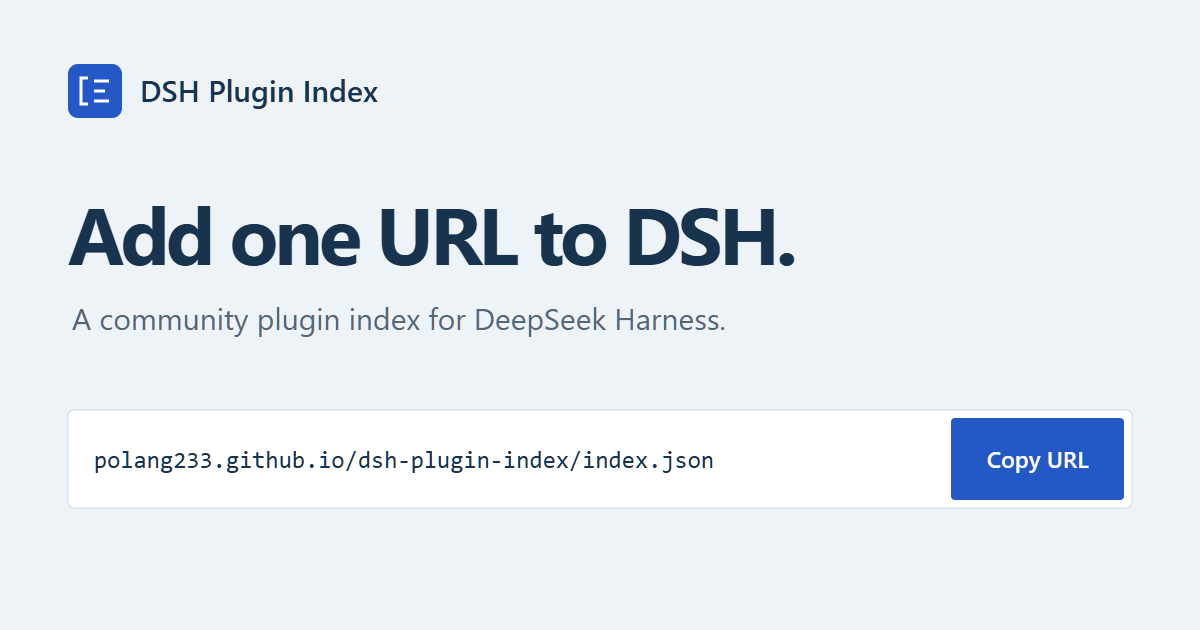
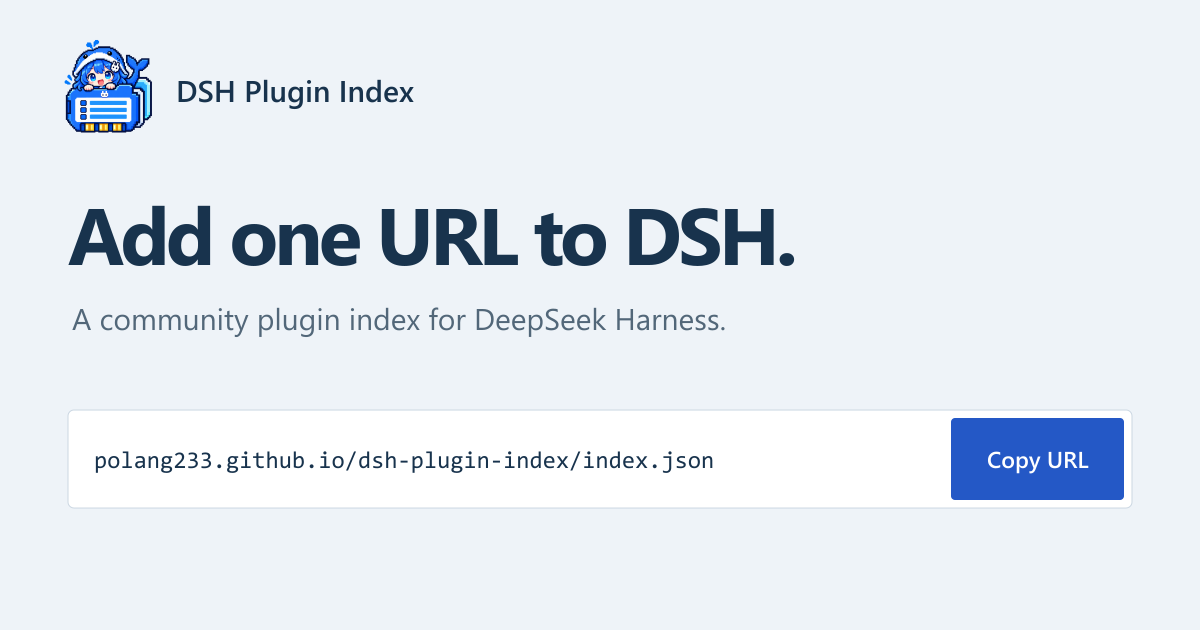
Add pixel whale mascot to project branding

diff --git a/public/404.html b/public/404.html
@@ -1,4 +1,4 @@
-<!doctype html><html lang="en"><head><meta charset="utf-8"><meta name="viewport" content="width=device-width, initial-scale=1"><meta name="robots" content="noindex"><title>Page not found — DSH Plugin Index</title><style>:root {
+<!doctype html><html lang="en"><head><meta charset="utf-8"><meta name="viewport" content="width=device-width, initial-scale=1"><meta name="robots" content="noindex"><title>Page not found — DSH Plugin Index</title><link rel="icon" href="https://polang233.github.io/dsh-plugin-index/assets/favicon.png" type="image/png" sizes="64x64"><style>:root {
   color-scheme: light;
   --paper: #fff;
   --mist: #eef3f8;
@@ -28,7 +28,7 @@ button { cursor: pointer; }
 .skip:focus { transform: none; }
 .site-header { min-height: 108px; display: flex; justify-content: space-between; align-items: center; gap: 28px; }
 .brand { display: inline-flex; align-items: center; gap: 11px; color: var(--ink); text-decoration: none; font-size: 19px; font-weight: 700; letter-spacing: -.45px; white-space: nowrap; }
-.brand img { width: 34px; height: 34px; }
+.brand img { width: 64px; height: 64px; flex-shrink: 0; object-fit: contain; image-rendering: pixelated; }
 .header-links { display: flex; gap: 25px; align-items: center; }
 .header-links > a { color: var(--slate); text-decoration: none; font-size: 14px; }
 .header-links > a:hover { color: var(--blue); text-decoration: underline; }
@@ -125,7 +125,7 @@ h2 { margin: 0; font-size: 29px; letter-spacing: -.035em; line-height: 1.2; font
   .shell { width: calc(100% - 36px); }
   .site-header { min-height: 82px; gap: 12px; }
   .brand { font-size: 16px; gap: 8px; letter-spacing: -.4px; }
-  .brand img { width: 28px; height: 28px; }
+  .brand img { width: 44px; height: 44px; }
   .header-links { gap: 0; }
   .header-links > a { display: none; }
   .languages { margin-left: 0; gap: 0; }
@@ -164,4 +164,4 @@ h2 { margin: 0; font-size: 29px; letter-spacing: -.035em; line-height: 1.2; font
   .footer .scope { margin-top: 10px; }
 }
 @media (prefers-reduced-motion: reduce) { *, *::before, *::after { scroll-behavior: auto !important; } }
-</style></head><body><header class="site-header shell"><a class="brand" href="https://polang233.github.io/dsh-plugin-index/">DSH Plugin Index</a></header><main class="shell hero"><h1>Page not found.</h1><p lang="zh-CN">页面不存在。</p><p>Open the plugin directory to continue.</p><p lang="zh-CN">返回插件目录，继续查找插件。</p><div class="contribute-links"><a class="submit-link" href="https://polang233.github.io/dsh-plugin-index/">English directory</a><a class="submit-link" href="https://polang233.github.io/dsh-plugin-index/zh/" lang="zh-CN">中文目录</a></div></main></body></html>
+</style></head><body><header class="site-header shell"><a class="brand" href="https://polang233.github.io/dsh-plugin-index/"><img src="https://polang233.github.io/dsh-plugin-index/assets/logo-256.png" alt="" width="64" height="64"><span>DSH Plugin Index</span></a></header><main class="shell hero"><h1>Page not found.</h1><p lang="zh-CN">页面不存在。</p><p>Open the plugin directory to continue.</p><p lang="zh-CN">返回插件目录，继续查找插件。</p><div class="contribute-links"><a class="submit-link" href="https://polang233.github.io/dsh-plugin-index/">English directory</a><a class="submit-link" href="https://polang233.github.io/dsh-plugin-index/zh/" lang="zh-CN">中文目录</a></div></main></body></html>

diff --git a/public/zh/index.html b/public/zh/index.html
@@ -12,7 +12,8 @@
   <link rel="alternate" hreflang="en" href="https://polang233.github.io/dsh-plugin-index/">
   <link rel="alternate" hreflang="zh-CN" href="https://polang233.github.io/dsh-plugin-index/zh/">
   <link rel="alternate" hreflang="x-default" href="https://polang233.github.io/dsh-plugin-index/">
-  <link rel="icon" href="../assets/favicon.svg" type="image/svg+xml">
+  <link rel="icon" href="../assets/favicon.png" type="image/png" sizes="64x64">
+  <link rel="apple-touch-icon" href="../assets/apple-touch-icon.png" sizes="180x180">
   <link rel="stylesheet" href="../assets/site.css">
   <meta property="og:type" content="website">
   <meta property="og:site_name" content="DSH Plugin Index">
@@ -33,7 +34,7 @@
 <body>
   <a class="skip" href="#main">跳到正文</a>
   <header class="site-header shell">
-    <a class="brand" href="../index.html"><img src="../assets/favicon.svg" alt="" width="34" height="34"><span>DSH Plugin Index</span></a>
+    <a class="brand" href="../index.html"><img src="../assets/logo-256.png" alt="" width="64" height="64"><span>DSH Plugin Index</span></a>
     <nav class="header-links" aria-label="主导航">
       <a href="#plugins">插件目录</a><a class="header-docs" href="https://github.com/polang233/dsh-plugin-index/blob/main/README.zh-CN.md">文档</a><a href="https://github.com/polang233/dsh-plugin-index">GitHub</a>
       <div class="languages" aria-label="语言"><a href="../index.html" lang="en" hreflang="en">EN</a><span lang="zh-CN" aria-current="page">中文</span></div>

diff --git a/public/index.html b/public/index.html
@@ -12,7 +12,8 @@
   <link rel="alternate" hreflang="en" href="https://polang233.github.io/dsh-plugin-index/">
   <link rel="alternate" hreflang="zh-CN" href="https://polang233.github.io/dsh-plugin-index/zh/">
   <link rel="alternate" hreflang="x-default" href="https://polang233.github.io/dsh-plugin-index/">
-  <link rel="icon" href="./assets/favicon.svg" type="image/svg+xml">
+  <link rel="icon" href="./assets/favicon.png" type="image/png" sizes="64x64">
+  <link rel="apple-touch-icon" href="./assets/apple-touch-icon.png" sizes="180x180">
   <link rel="stylesheet" href="./assets/site.css">
   <meta property="og:type" content="website">
   <meta property="og:site_name" content="DSH Plugin Index">
@@ -33,7 +34,7 @@
 <body>
   <a class="skip" href="#main">Skip to content</a>
   <header class="site-header shell">
-    <a class="brand" href="./index.html"><img src="./assets/favicon.svg" alt="" width="34" height="34"><span>DSH Plugin Index</span></a>
+    <a class="brand" href="./index.html"><img src="./assets/logo-256.png" alt="" width="64" height="64"><span>DSH Plugin Index</span></a>
     <nav class="header-links" aria-label="Main navigation">
       <a href="#plugins">Plugins</a><a class="header-docs" href="https://github.com/polang233/dsh-plugin-index#readme">Docs</a><a href="https://github.com/polang233/dsh-plugin-index">GitHub</a>
       <div class="languages" aria-label="Language"><span lang="en" aria-current="page">EN</span><a href="./zh/index.html" lang="zh-CN" hreflang="zh-CN">中文</a></div>

diff --git a/public/assets/site.css b/public/assets/site.css
@@ -28,7 +28,7 @@ button { cursor: pointer; }
 .skip:focus { transform: none; }
 .site-header { min-height: 108px; display: flex; justify-content: space-between; align-items: center; gap: 28px; }
 .brand { display: inline-flex; align-items: center; gap: 11px; color: var(--ink); text-decoration: none; font-size: 19px; font-weight: 700; letter-spacing: -.45px; white-space: nowrap; }
-.brand img { width: 34px; height: 34px; }
+.brand img { width: 64px; height: 64px; flex-shrink: 0; object-fit: contain; image-rendering: pixelated; }
 .header-links { display: flex; gap: 25px; align-items: center; }
 .header-links > a { color: var(--slate); text-decoration: none; font-size: 14px; }
 .header-links > a:hover { color: var(--blue); text-decoration: underline; }
@@ -125,7 +125,7 @@ h2 { margin: 0; font-size: 29px; letter-spacing: -.035em; line-height: 1.2; font
   .shell { width: calc(100% - 36px); }
   .site-header { min-height: 82px; gap: 12px; }
   .brand { font-size: 16px; gap: 8px; letter-spacing: -.4px; }
-  .brand img { width: 28px; height: 28px; }
+  .brand img { width: 44px; height: 44px; }
   .header-links { gap: 0; }
   .header-links > a { display: none; }
   .languages { margin-left: 0; gap: 0; }

diff --git a/site/site.css b/site/site.css
@@ -28,7 +28,7 @@ button { cursor: pointer; }
 .skip:focus { transform: none; }
 .site-header { min-height: 108px; display: flex; justify-content: space-between; align-items: center; gap: 28px; }
 .brand { display: inline-flex; align-items: center; gap: 11px; color: var(--ink); text-decoration: none; font-size: 19px; font-weight: 700; letter-spacing: -.45px; white-space: nowrap; }
-.brand img { width: 34px; height: 34px; }
+.brand img { width: 64px; height: 64px; flex-shrink: 0; object-fit: contain; image-rendering: pixelated; }
 .header-links { display: flex; gap: 25px; align-items: center; }
 .header-links > a { color: var(--slate); text-decoration: none; font-size: 14px; }
 .header-links > a:hover { color: var(--blue); text-decoration: underline; }
@@ -125,7 +125,7 @@ h2 { margin: 0; font-size: 29px; letter-spacing: -.035em; line-height: 1.2; font
   .shell { width: calc(100% - 36px); }
   .site-header { min-height: 82px; gap: 12px; }
   .brand { font-size: 16px; gap: 8px; letter-spacing: -.4px; }
-  .brand img { width: 28px; height: 28px; }
+  .brand img { width: 44px; height: 44px; }
   .header-links { gap: 0; }
   .header-links > a { display: none; }
   .languages { margin-left: 0; gap: 0; }

diff --git a/README.zh-CN.md b/README.zh-CN.md
@@ -1,3 +1,7 @@
+<p align="center">
+  <img src="site/logo.png" alt="DSH Plugin Index 项目 Logo" width="160" height="160">
+</p>
+
 # DSH Plugin Index
 
 DeepSeek Harness 的社区插件索引。添加一个地址，即可在 DSH 内浏览和安装插件。

diff --git a/README.md b/README.md
@@ -1,3 +1,7 @@
+<p align="center">
+  <img src="site/logo.png" alt="DSH Plugin Index logo" width="160" height="160">
+</p>
+
 # DSH Plugin Index
 
 A community plugin index for DeepSeek Harness. Add one URL in DSH to browse and install plugins.
